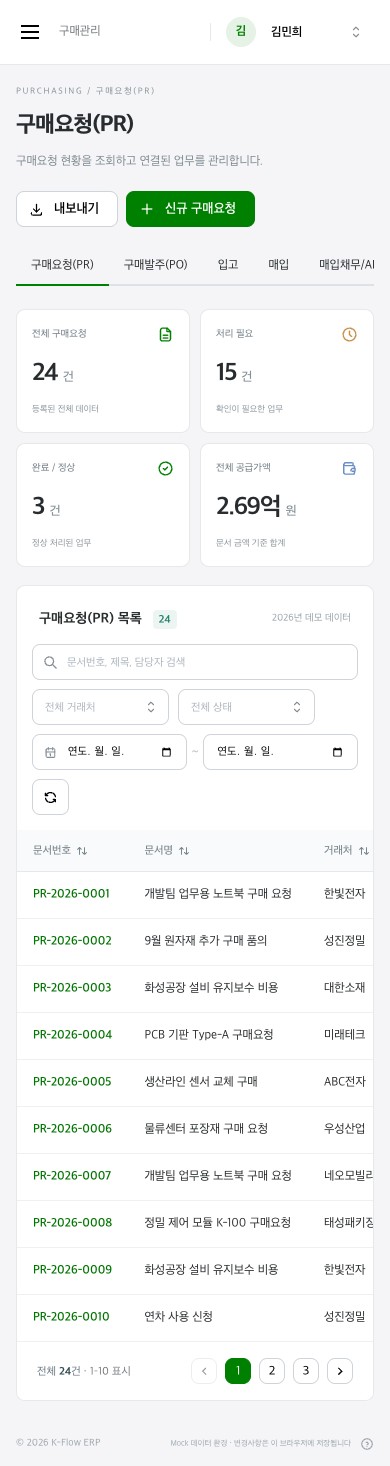
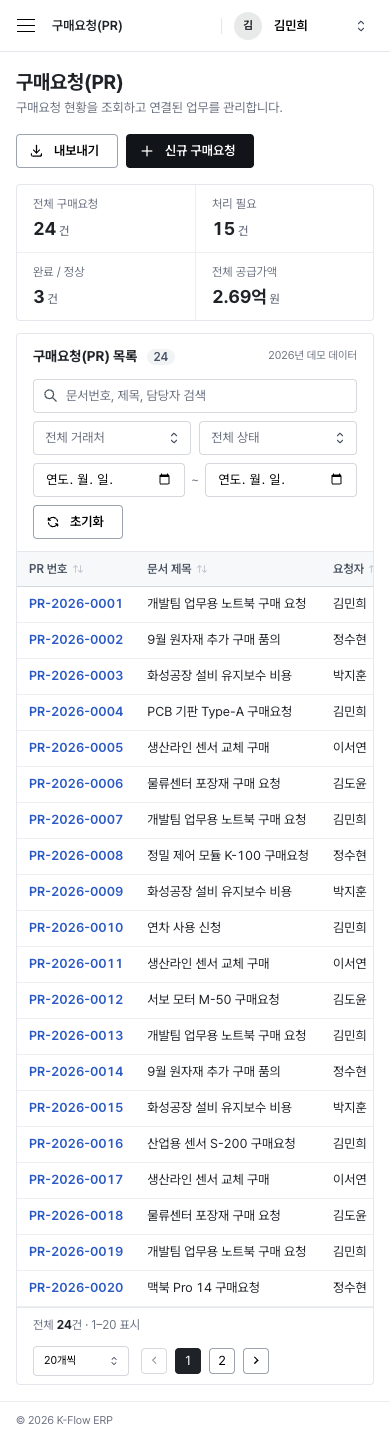
docs: align frontend docs and screenshots with the 2026-10-08 UI refresh
- FRONTEND-ARCHITECTURE: file map, summary views, editor page/panel split,
  URL state (?path=, /new, /:id/edit), design tokens and screen types,
  current verification counts
- BACKEND-HANDOFF, README, PORTFOLIO-NOTES: replace the charcoal/green and
  modal-form descriptions with the current design
- VALIDATION: new dated section for the redesign and seed consistency tests
- REQUIREMENTS-v0.2: RPT-01 current-fact (F) updated; dated note on 9.2
  instead of rewriting the recorded decision
- Regenerate docs/screenshots from the new UI

diff --git a/REQUIREMENTS-v0.2.md b/REQUIREMENTS-v0.2.md
@@ -366,10 +366,10 @@ v1에서는 위 역할에 맞는 업무에서만 해당 품목을 사용한다. 
 
 - **업무 영역:** 운영 보고서/문서 탐색. v0.1 RPT-01, COM-05 보완.
 - **요구사항:** 발주·입고·매입·지급 또는 주문·출고·매출·수금의 진행과 잔량을 현재 문서에서 설명하고 근거로 이동할 수 있게 한다.
-- **근거 구분:** F — 현재 관련 문서 버튼은 상세를 닫고 다른 업무 경로로 이동; 경영 분석은 1.1절처럼 변경됨. E — 외부 자료가 특정 UI를 강제하지 않음. P — 상태·수량·금액 근거를 보여 불필요한 문서 이동을 줄이는 목표다. Drawer/탭 등 UI 방식은 미확정.
+- **근거 구분:** F — (2026-10-08 디자인 개편 후) 관련 문서는 상세 Drawer 안에서 열리고 경로가 `?path=`로 유지되며 이전 단계로 돌아갈 수 있다. 업무 흐름은 연결 문서 기준으로 표시하지만 확정 누계·잔량·정산 요약은 아직 없다. 경영 분석은 1.1절처럼 변경됨. E — 외부 자료가 특정 UI를 강제하지 않음. P — 상태·수량·금액 근거를 보여 불필요한 문서 이동을 줄이는 목표다. Drawer/탭 등 UI 방식은 미확정.
 - **Business Rule:** 주문액과 회계 매출, 현재 AP/AR과 과거 기준일 잔액, 생산계획과 양품실적을 구별한다. 근거 없는 예산/대사는 0 또는 정상으로 표시하지 않는다. 같은 기준의 목록·KPI·CSV를 비교할 수 있게 한다.
 - **Acceptance Criteria:** PO 100/확정 입고 30/초안 70에서 입고 30·미입고 70·초안 70을 구별한다. 반복입고 두 건 모두 조회된다. 사용 권한 없는 급여/단가가 요약 카드나 관련 링크에서 노출되지 않는다. 집계와 근거 내역 합계가 같고 기준일을 표시한다.
-- **미정 정책 여부:** `[DECISION REQUIRED] DR-23` — 요약 접근범위, 기준일 스냅샷·예산 원천·내보내기 한도. UI 변경은 이번에 수행하지 않음. DR-22의 개념·서버 경계는 `[ADOPTED]`; 이 업무의 접근·민감정보·담당자 세부 정책은 `[DETAIL DECISION REQUIRED] DR-22`로 남긴다.
+- **미정 정책 여부:** `[DECISION REQUIRED] DR-23` — 요약 접근범위, 기준일 스냅샷·예산 원천·내보내기 한도. UI 표시 방식은 2026-10-08 디자인 개편에서 변경했으나 요약 접근범위·기준일 정책은 여전히 미정. DR-22의 개념·서버 경계는 `[ADOPTED]`; 이 업무의 접근·민감정보·담당자 세부 정책은 `[DETAIL DECISION REQUIRED] DR-22`로 남긴다.
 
 ### RPT-02 — 재무 보고서의 기준과 근거
 
@@ -536,6 +536,7 @@ DR-01/02/03/22는 아래 **사용자가 명시 채택한 범위에 한해 ADOPTE
 ### 9.2 이미 확정한 구매 폼 방향 — P / 사용자 명시
 
 - 대상은 PR/PO/입고/매입/AP/지급 여섯 화면. 기존 공통 Modal·디자인·사이드바·테마를 유지하고 필드·품목 Grid·원천 연결만 수정한다.
+  - 2026-10-08 메모: 이후 디자인 개편에서 공통 Modal은 전용 작성 화면(품목행 문서)·오른쪽 패널(기준정보)로, 디자인·사이드바·테마는 새 기준으로 바뀌었다. 필드·품목 Grid·원천 연결 규칙은 그대로다.
 - PR 희망 거래처는 선택이고, PO에는 실제 발주할 공급업체가 필요하다. PO 원천 PR은 선택이며 가져온 값은 초안에서 수정 가능하다. 재승인 기준은 별도 미정 정책이다.
 - PR·PO·입고·매입의 초안 저장은 각각 승인·발주확정·입고확정·매입전기와 구분한다. 입고는 PO 필수이며 PO 행별 **확정** 누계를 사용하고 한 PO에 여러 입고를 허용한다.
 - 매입은 PO 또는 입고를 원천으로 선택한다. 원천 금액과 실제 청구 금액을 구분하고 증빙일·전기일·지급기한을 별도로 둔다. 실제 청구액 수정·차이 처리의 세부 규칙만 PF-05에서 선택한다.

diff --git a/docs/VALIDATION.md b/docs/VALIDATION.md
@@ -66,3 +66,16 @@
 ## 문서화 (2026-09-29)
 
 현재 소스와 기존 검증 기록을 대조해 프론트엔드 아키텍처, 백엔드 인수인계, 포트폴리오 설명 문서를 추가했다. 현재 Mock 구현과 미구현 서버 설계를 구분했다. 문서 변경에 대해 Markdown 내부 파일 링크를 확인했으며, 애플리케이션 코드 변경이 없어 빌드와 전체 테스트를 추가로 재실행하지 않았다.
+
+## 디자인 개편 (2026-10-08)
+
+`design/erp-ui-refresh` 브랜치에서 화면 디자인을 개편했다(커밋 64c8eef 기준선 이후). 이전 색상 수정(차콜·초록)과 보고서의 초록 농도 매핑은 이 개편으로 대체되었다.
+
+- 디자인 기준: 흰 작업 면·옅은 회색 메뉴·파란 강조색 1개, Pretendard Variable(CDN), 글자 11px 이상, 표 행 36px.
+- 메뉴: 모듈 레일 + 묶음별 하위 메뉴, 상단바에 회사·현재 위치, 현재 화면 `aria-current`, 본문 건너뛰기 링크.
+- 목록: 한 줄 요약, 금액 오른쪽 정렬, 헤더·첫 열 고정, 페이지 크기 선택, 문서번호 버튼.
+- 현황 보기: 재고현황, 채권·채무 연령분석, 수불부, BOM 구성표, 총계정원장 누적 잔액, 결재함 처리 대기.
+- 재무제표 양식, 분석 보고서, 대시보드 재구성. 상세 Drawer(목록 유지, `?path=` 경로, Escape 한 단계 뒤로, 연결 문서 기준 흐름). 품목행 문서는 전용 작성 화면, 기준정보는 오른쪽 패널.
+- 시드 데이터: 수불은 확정 원천 문서에서 생성하고 기초재고를 역산(누계 = 현재고). BOM은 품목별 사용 버전 1개·자기 투입 없음. 9월 전표는 업무 순서로 재구성(잔액 비음수, 자산 = 부채 + 자본).
+
+검증: TypeScript 통과, 업무 테스트 31개(시드 정합성 3개 추가) 통과, 브라우저 시나리오 13개 통과, 54개 경로 렌더링·현재 메뉴 표시·pageerror 없음 확인. 브라우저 시나리오 변경은 목록 기본 20건, 새 모바일 메뉴 조작, 재고현황·매입채무의 기본 현황 보기 반영이다. `docs/screenshots/`의 캡처를 새 화면으로 갱신했다. 접근성은 키보드 이동·포커스 복귀·대비 등 일부만 확인했으며 전체 접근성 감사를 한 것은 아니다.

diff --git a/README.md b/README.md
@@ -48,7 +48,7 @@ npm run test:e2e     # dev 서버 실행 후 브라우저 테스트
 |감사로그|이벤트 검색/필터, 변경 전후 상세, 원천문서 이동|
 |AI Assistant|5종 Mock 질문, 근거 문서 링크, 초안 확인·취소·생성|
 
-목록 공통: 검색, 상태/엔티티/기간 필터, 정렬, pagination, CSV 내보내기, loading skeleton, empty, error/retry. 업무 문서는 상세 Drawer, 신규/수정 Modal, 상태별 액션, 관련 문서, 처리 이력을 제공합니다. 원장·분석·감사 자료는 조회 전용입니다.
+목록 공통: 검색, 상태/엔티티/기간 필터, 정렬, pagination, CSV 내보내기, loading skeleton, empty, error/retry. 업무 문서는 목록을 가리지 않는 상세 Drawer(관련 문서 경로 유지), 품목행 문서의 전용 작성 화면·기준정보의 오른쪽 패널, 상태별 액션, 연결 문서 기준 업무 흐름, 처리 이력을 제공합니다. 재고현황·채권/채무·수불부·BOM·총계정원장은 업무에 맞는 현황 보기로 엽니다. 원장·분석·감사 자료는 조회 전용입니다.
 
 ## 5분 시연
 
@@ -69,7 +69,7 @@ npm run test:e2e     # dev 서버 실행 후 브라우저 테스트
 src/
   app/          # 공통 셸, 메뉴/리소스 등록, QueryClient
   components/   # DataTable, DetailDrawer, FilterBar, DocumentForm 등
-  pages/        # Dashboard, 공통 업무 목록
+  pages/        # Dashboard, 공통 업무 목록, 문서 작성 화면
   features/
     approval/ purchasing/ inventory/ sales/ manufacturing/
     accounting/ hr/ reporting/ audit/ assistant/ payments/

diff --git a/docs/BACKEND-HANDOFF.md b/docs/BACKEND-HANDOFF.md
@@ -19,7 +19,7 @@ React/TypeScript/Vite ERP SPA다. 공통 화면 설정을 이용한 54개 경로
 
 사용자 이름 옆 선택은 결재 시연용 actor 변경이다. 로그인·비밀번호·세션·JWT 인증을 구현한 화면이 아니다. AI도 외부 모델 호출 없이 동작하는 Mock다.
 
-디자인은 차콜 메뉴, 선명한 초록 강조, 보고서의 초록 농도 차이를 유지한다. 현 단계의 목적은 화면 재디자인보다 실제 데이터와 업무 규칙을 연결하는 것이다.
+디자인은 2026-10-08 개편(흰 작업 면, 옅은 회색 메뉴, 링크·선택에만 쓰는 파란 강조색, 의미별 상태 색)을 기준으로 한다. 상세는 목록을 가리지 않는 Drawer, 품목행 문서 입력은 전용 작성 화면이다. 현 단계의 목적은 추가 재디자인보다 실제 데이터와 업무 규칙을 연결하는 것이다.
 
 ## 3. 첫 번째 구현 범위 제안
 
@@ -134,7 +134,7 @@ docs/BACKEND-HANDOFF.md를 먼저 읽어줘.
 - ErpClient 인터페이스와 Mock/REST adapter가 있으나 실제 서버는 없다.
 - localStorage 저장이며 이름 옆 사용자 변경은 데모 역할 전환이다.
 - AI Assistant는 규칙 기반 Mock다.
-- 메뉴는 차콜, 포인트와 보고서는 초록 계열 디자인을 유지한다.
+- 디자인은 2026-10-08 개편안(흰색·옅은 회색, 파란 강조색 1개, 의미별 상태 색, 재무제표 양식)을 유지한다.
 
 다음 목표:
 로그인/직원·부서·거래처·품목 기준정보를 바탕으로
